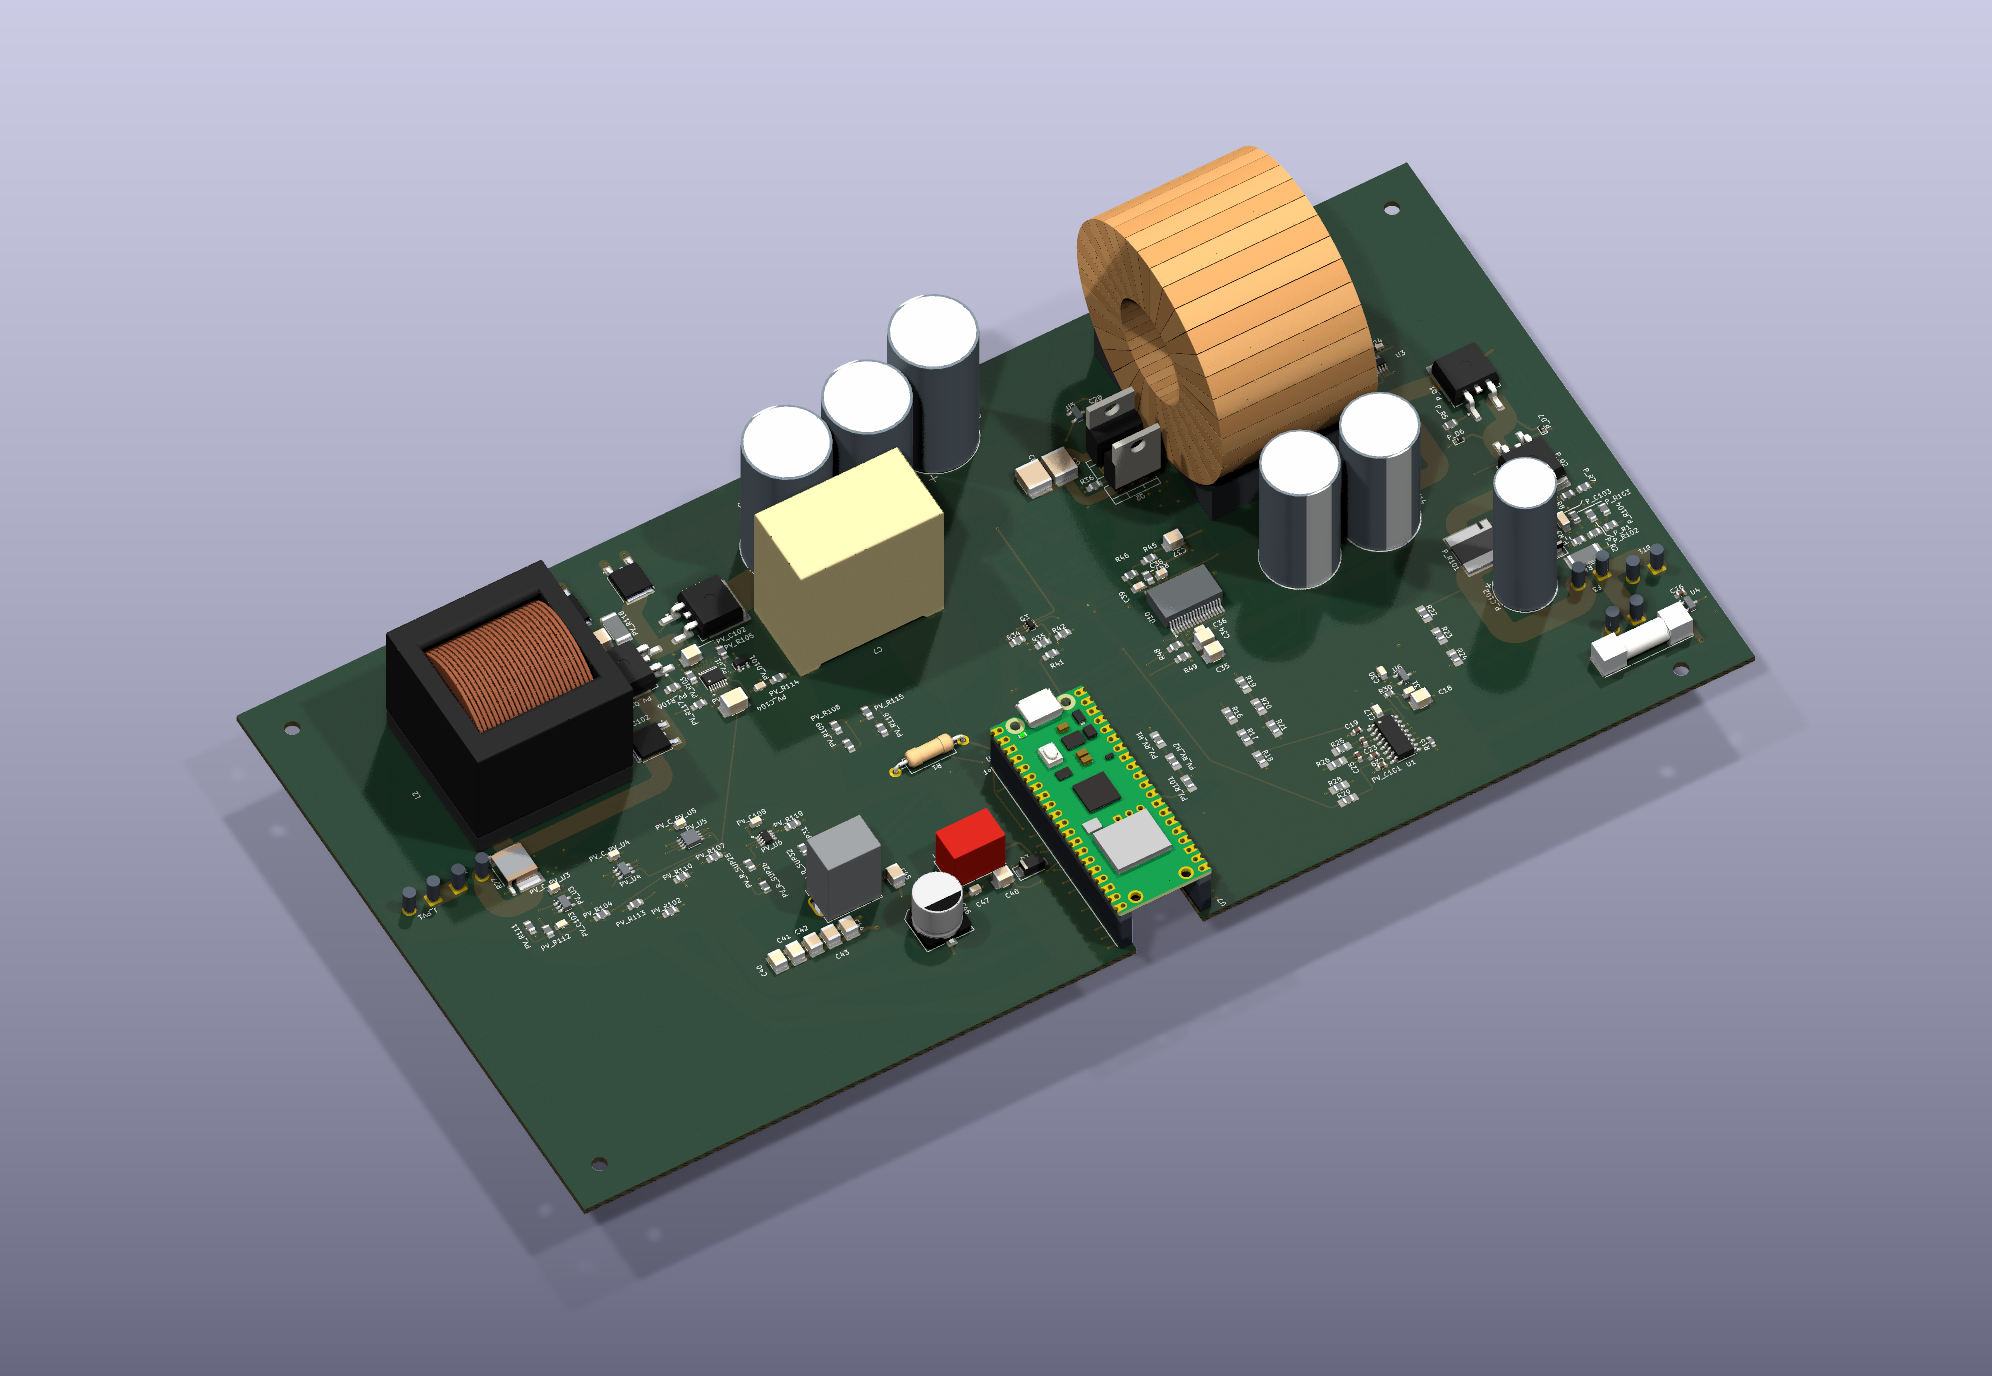
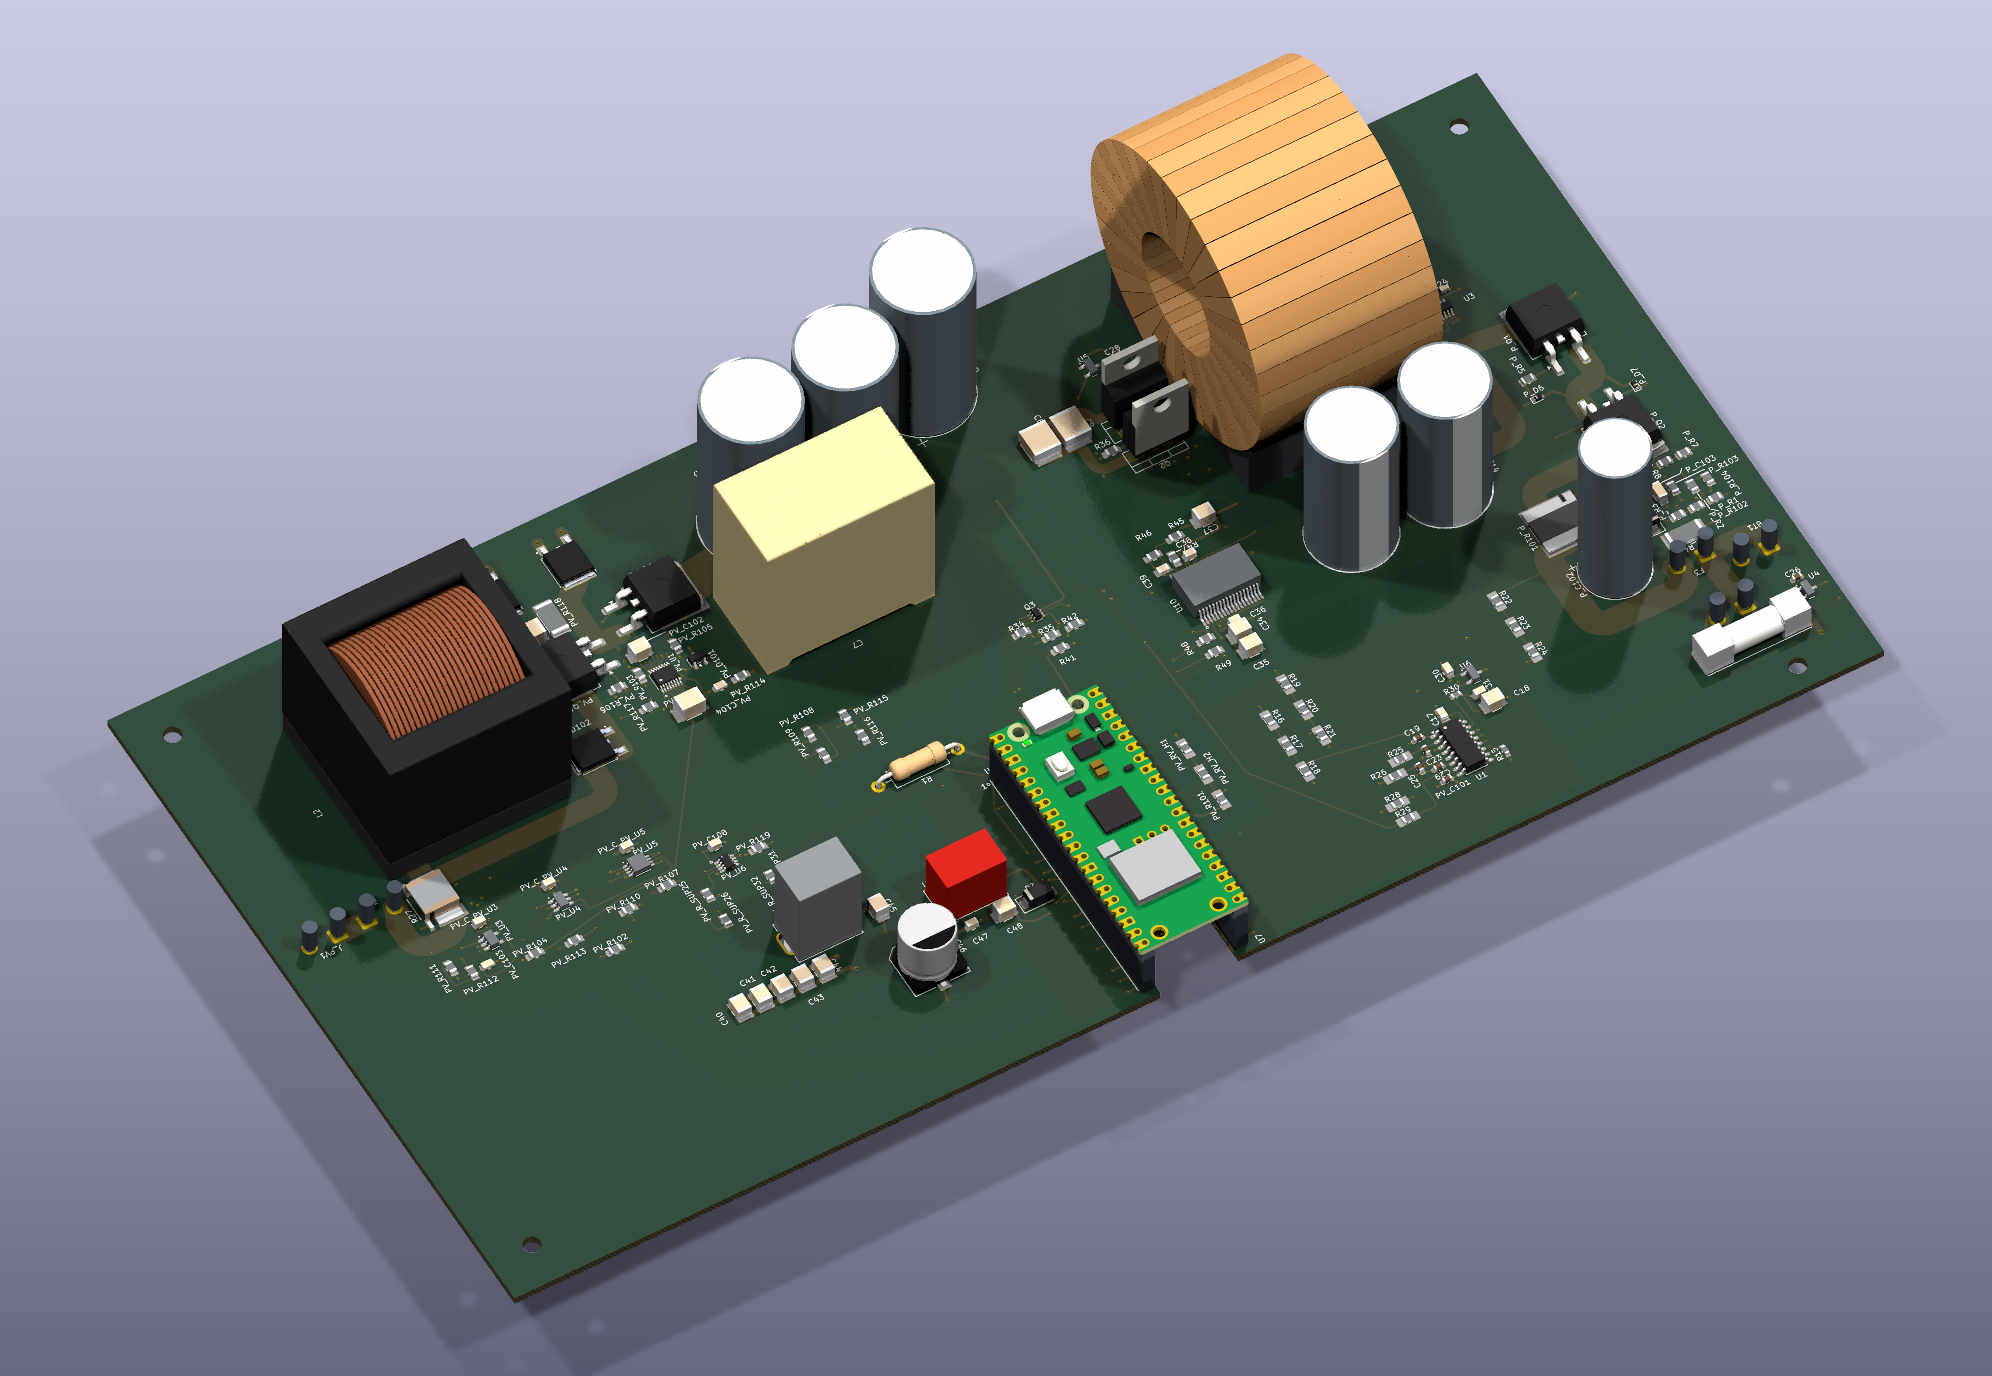
docs: tighten PCB image framing and remove caption

Changed region(s): [[0.0311, 0.0312, 0.9649, 0.9688]]

diff --git a/README.md b/README.md
@@ -2,8 +2,6 @@
 
 ![C07 PCBの3Dビュー](docs/images/c07-pcb-3d.png)
 
-*KiCadによるPCBの3Dビュー（設計データ・実機未製作）*
-
 この制作はオフグリッド用太陽光発電システムの設計のポートフォリオです。  
 シミュレーションでのみ動作の確認を行っており実機の作成まで行っていません。
 
